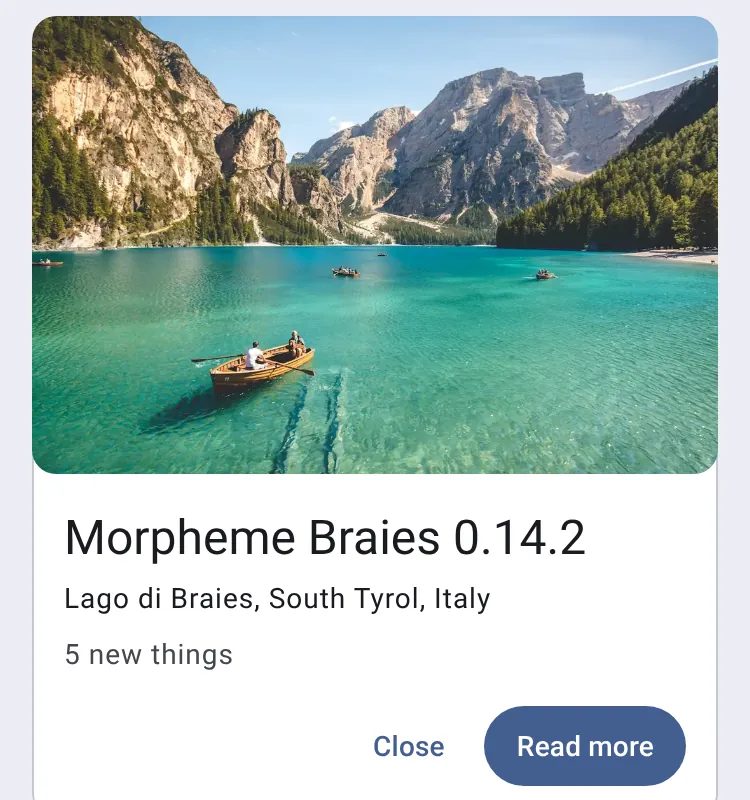
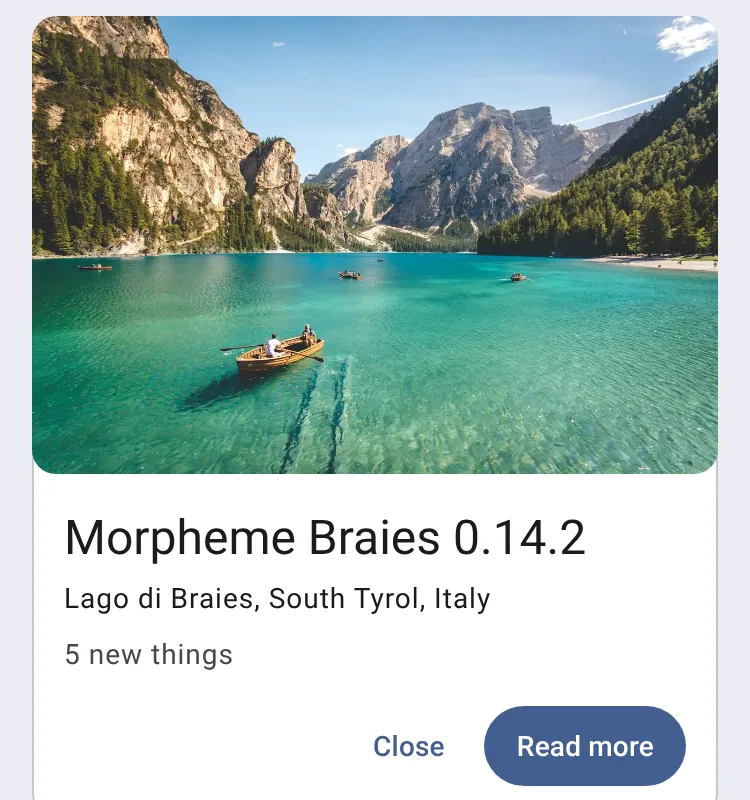
Show an edition's whole photo on its page under Licenses
The edition's photo is now kept whole, as on Unsplash (Braies: 3:2,
1280 x 854), and its page under Licenses shows all of it above the
licence text. The update card still crops it to 3:2 from the middle.

Claude-Session: https://claude.ai/code/session_01GGzusN3TCZExqovwX6Beg3

Changed region(s): [[0.0307, 0.0, 0.9813, 0.5938]]

diff --git a/src/bundledNotes.ts b/src/bundledNotes.ts
@@ -1,6 +1,7 @@
 // The release notes of the minor line this package is in (x.y.0 up to its version): read at build time from the package's own release-notes/ files.
 // Exposes runningNotes (the entries the Morpheme page shows, newest first; empty when the line has none) and runningEdition
-// (the edition this version belongs to: the place its photo is from, short and in full, and the photo; undefined when there is none).
+// (the edition this version belongs to: the place its photo is from, short and in full, and the photo; undefined when there is none)
+// and editionPhotos (each edition's photo by its version).
 // Depends on lib/releaseNotes.mjs (bundledNotes) and package.json's version. The globs are relative, so they work here and in a site's node_modules.
 import { bundledNotes, editionOf } from '../lib/releaseNotes.mjs';
 import { version } from '../package.json';
@@ -18,3 +19,14 @@ const editions = import.meta.glob<{ name?: string; place?: Record<string, string
 const editionImages = import.meta.glob<string>('../release-notes/editions/*.webp', { eager: true, query: '?url', import: 'default' });
 
 export const runningEdition = editionOf(editions, editionImages, version);
+
+/** Each edition's photo, whole, by its version: on its page under "Licenses" (LicensePage). */
+export const editionPhotos: Record<string, string> = Object.fromEntries(
+  Object.entries(editionImages).map(([path, url]) => [
+    path
+      .split('/')
+      .pop()!
+      .replace(/\.webp$/, ''),
+    url,
+  ]),
+);

diff --git a/src/Licenses.tsx b/src/Licenses.tsx
@@ -17,6 +17,7 @@ import { apps } from './registry';
 import { themes } from './themes';
 import { byText } from './schema';
 import { PACKAGE } from '../lib/cms-version.mjs';
+import { editionPhotos } from './bundledNotes';
 import { locale, t } from './i18n';
 import {
   CMS_NAME,
@@ -242,6 +243,8 @@ export function LicensePage({ id }: { id: string }) {
   const isCms = work?.id === PACKAGE;
   const name = isCms ? t.licenses.own(CMS_NAME) : (work?.name ?? (owner ? t.licenses.own(ownerName(owner)) : t.common.parts.licenses));
   const text = work?.text ?? owner?.text;
+  // An edition's photo (editions/<version>, editionWorks in lib/licenses.mjs): the whole photo, uncropped.
+  const photo = work?.id.startsWith('editions/') ? editionPhotos[work.id.slice('editions/'.length)] : undefined;
   const back = { href: `#${LICENSES_ROUTE}`, label: t.common.parts.licenses };
   return (
     <Screen title={name} wide back={back}>
@@ -258,6 +261,7 @@ export function LicensePage({ id }: { id: string }) {
               <OwnRow owner={(work ?? owner)!} name={isCms ? CMS_NAME : ownerName(owner!)} open={false} />
             )}
           </Group>
+          {photo && <img src={photo} alt={work!.name} className="mb-8 block h-auto w-full rounded-xl" />}
           <section className="mb-8">
             <GroupTitle>{t.licenses.text}</GroupTitle>
             {work?.standard && <SupportingText className="mb-3 px-4">{t.licenses.standardText(work.license)}</SupportingText>}

diff --git a/.changeset/README.md b/.changeset/README.md
@@ -55,8 +55,9 @@ where it was taken. After an update, the start screen shows the photo and "Morph
 
 - `release-notes/editions/<version>.json`: `name` (the place, short, in the card's headline), `place` (the full place
   per locale, `en-US` and `da-DK`, the card's subhead) and `photo` (`by`, `source` and `license`).
-- `release-notes/editions/<version>.webp`: the photo, 1280 × 720 px, at most 200 KB. The card crops it to 3:2
-  from the middle: above the text on a phone, beside it on larger screens.
+- `release-notes/editions/<version>.webp`: the whole photo, uncropped as on Unsplash, 1280 px wide, at most 200 KB.
+  Its page under Licenses shows all of it; the card crops it to 3:2 from the middle: above the text on a phone, beside it
+  on larger screens.
 
 A version shows the newest edition whose version is at most its own, so an edition keeps its photo and name until the
 next release adds a new one.
